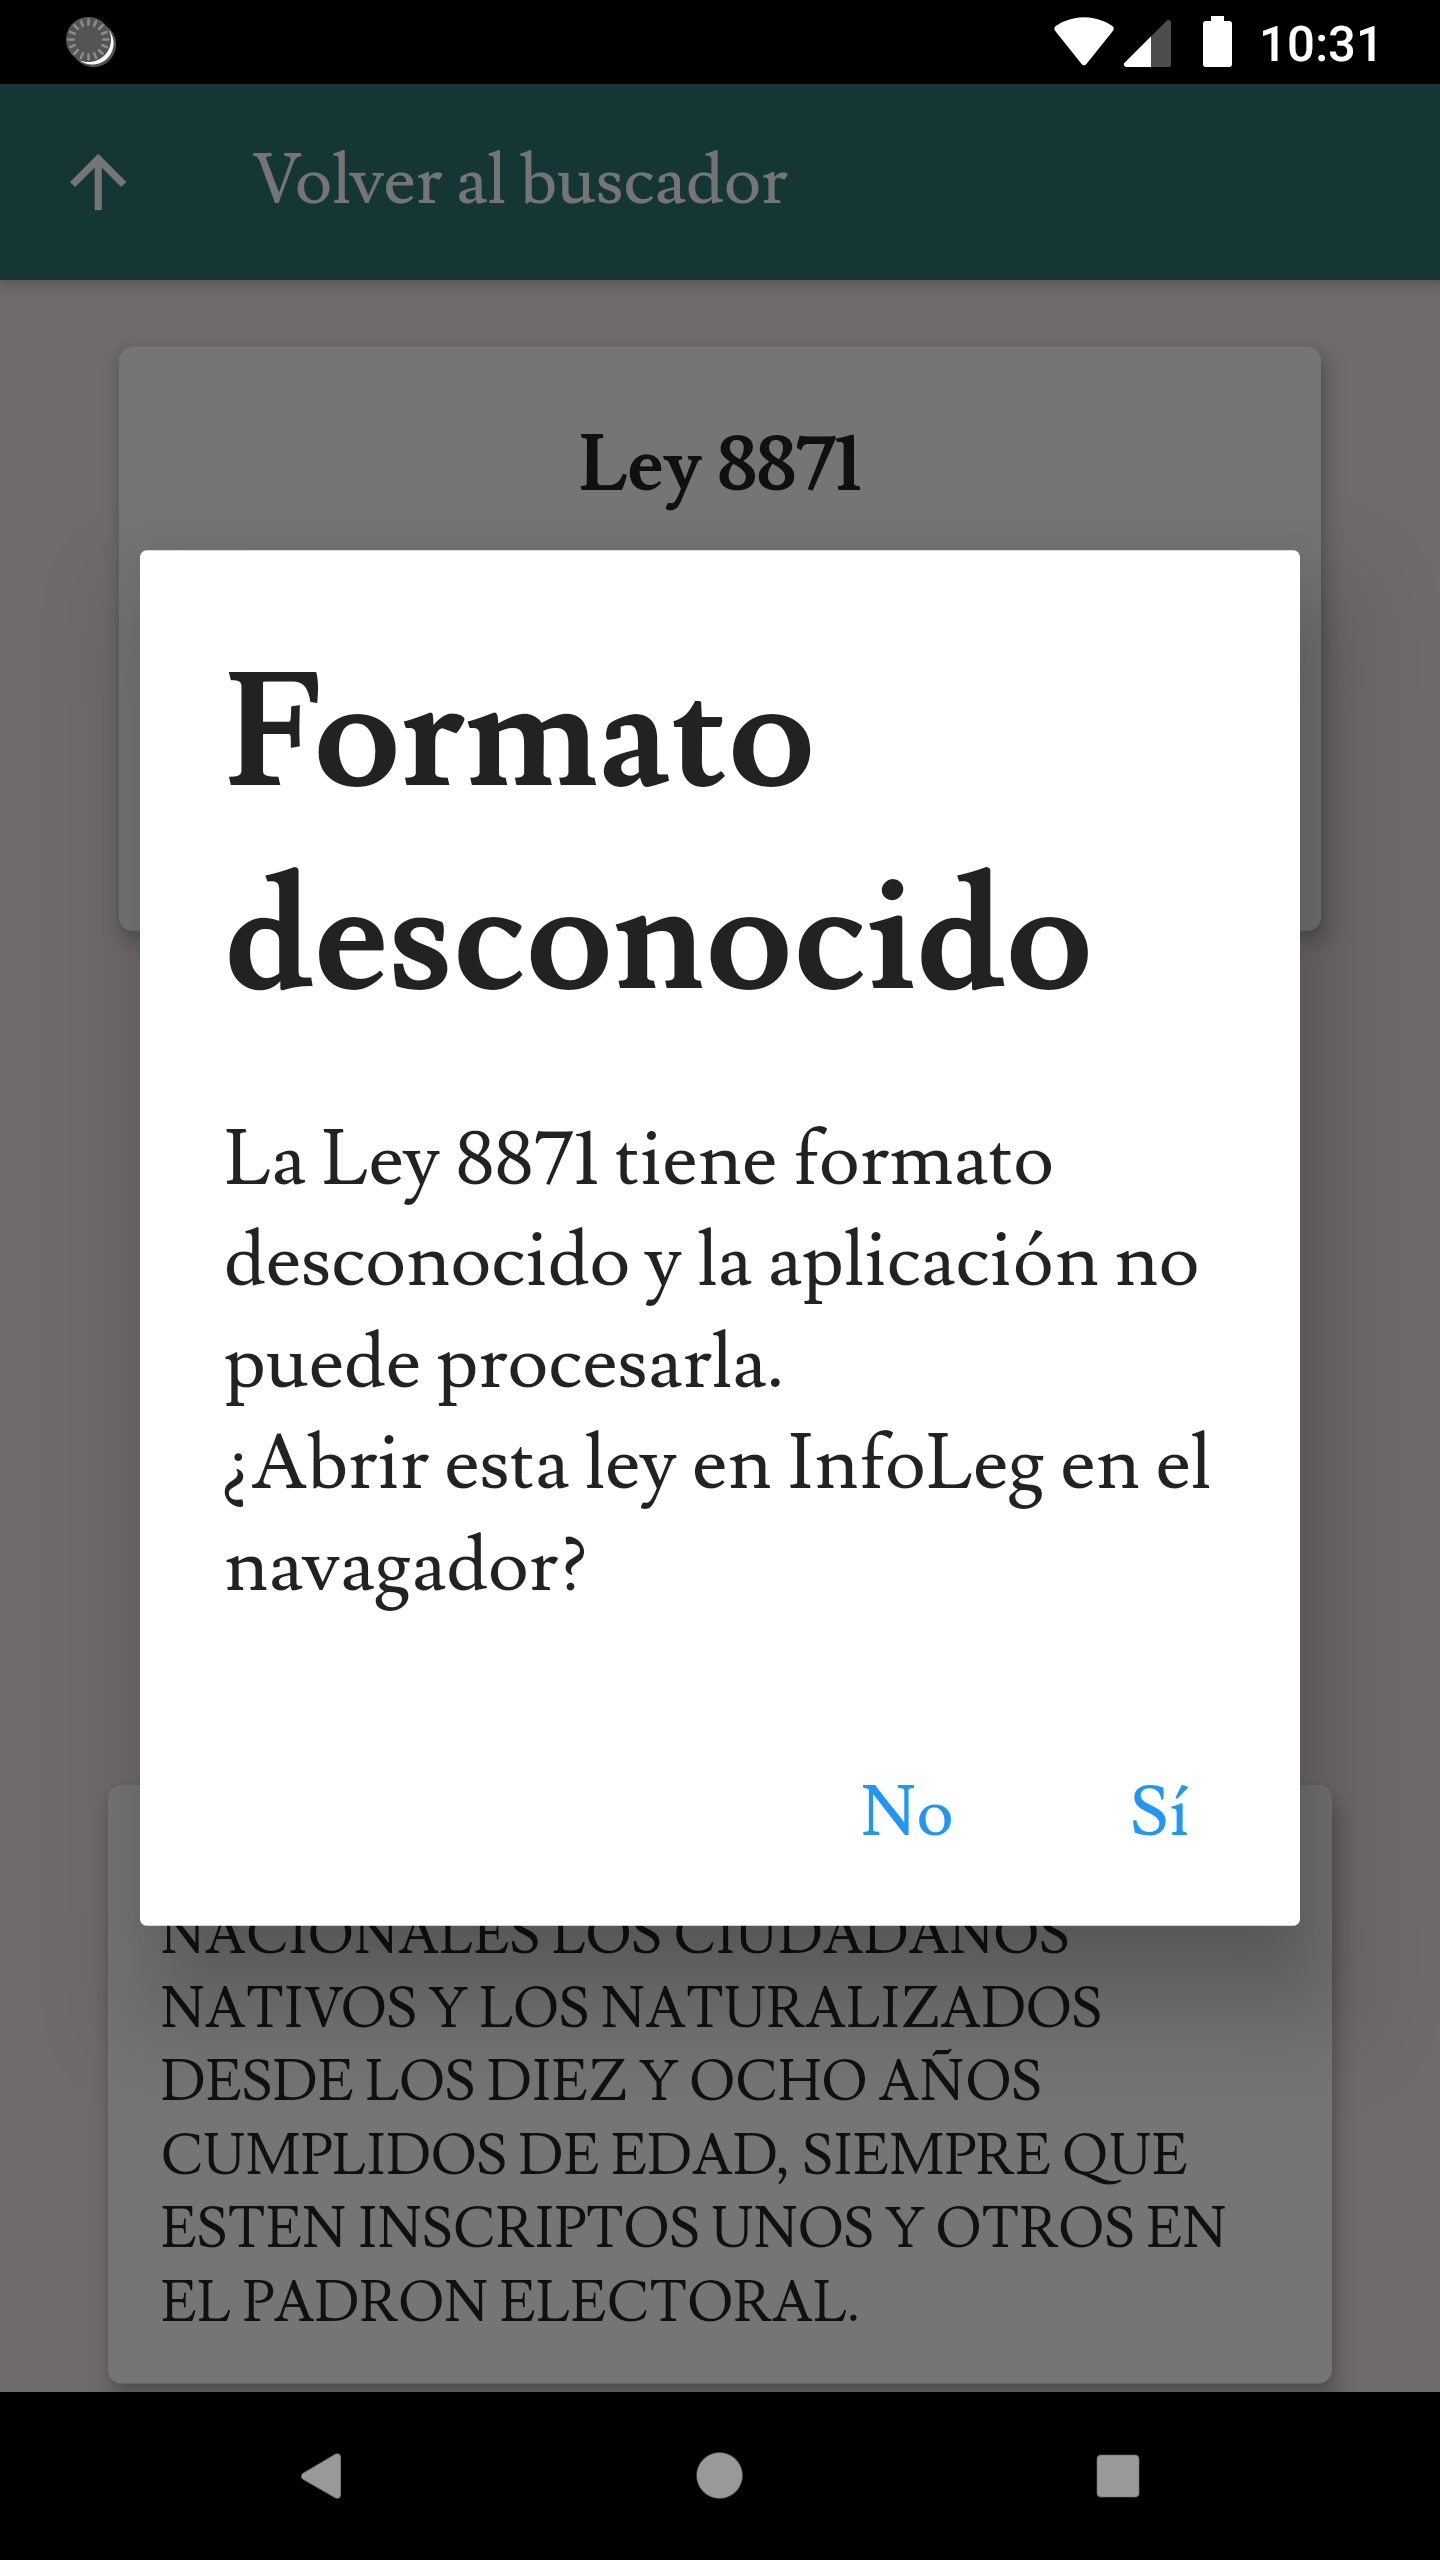
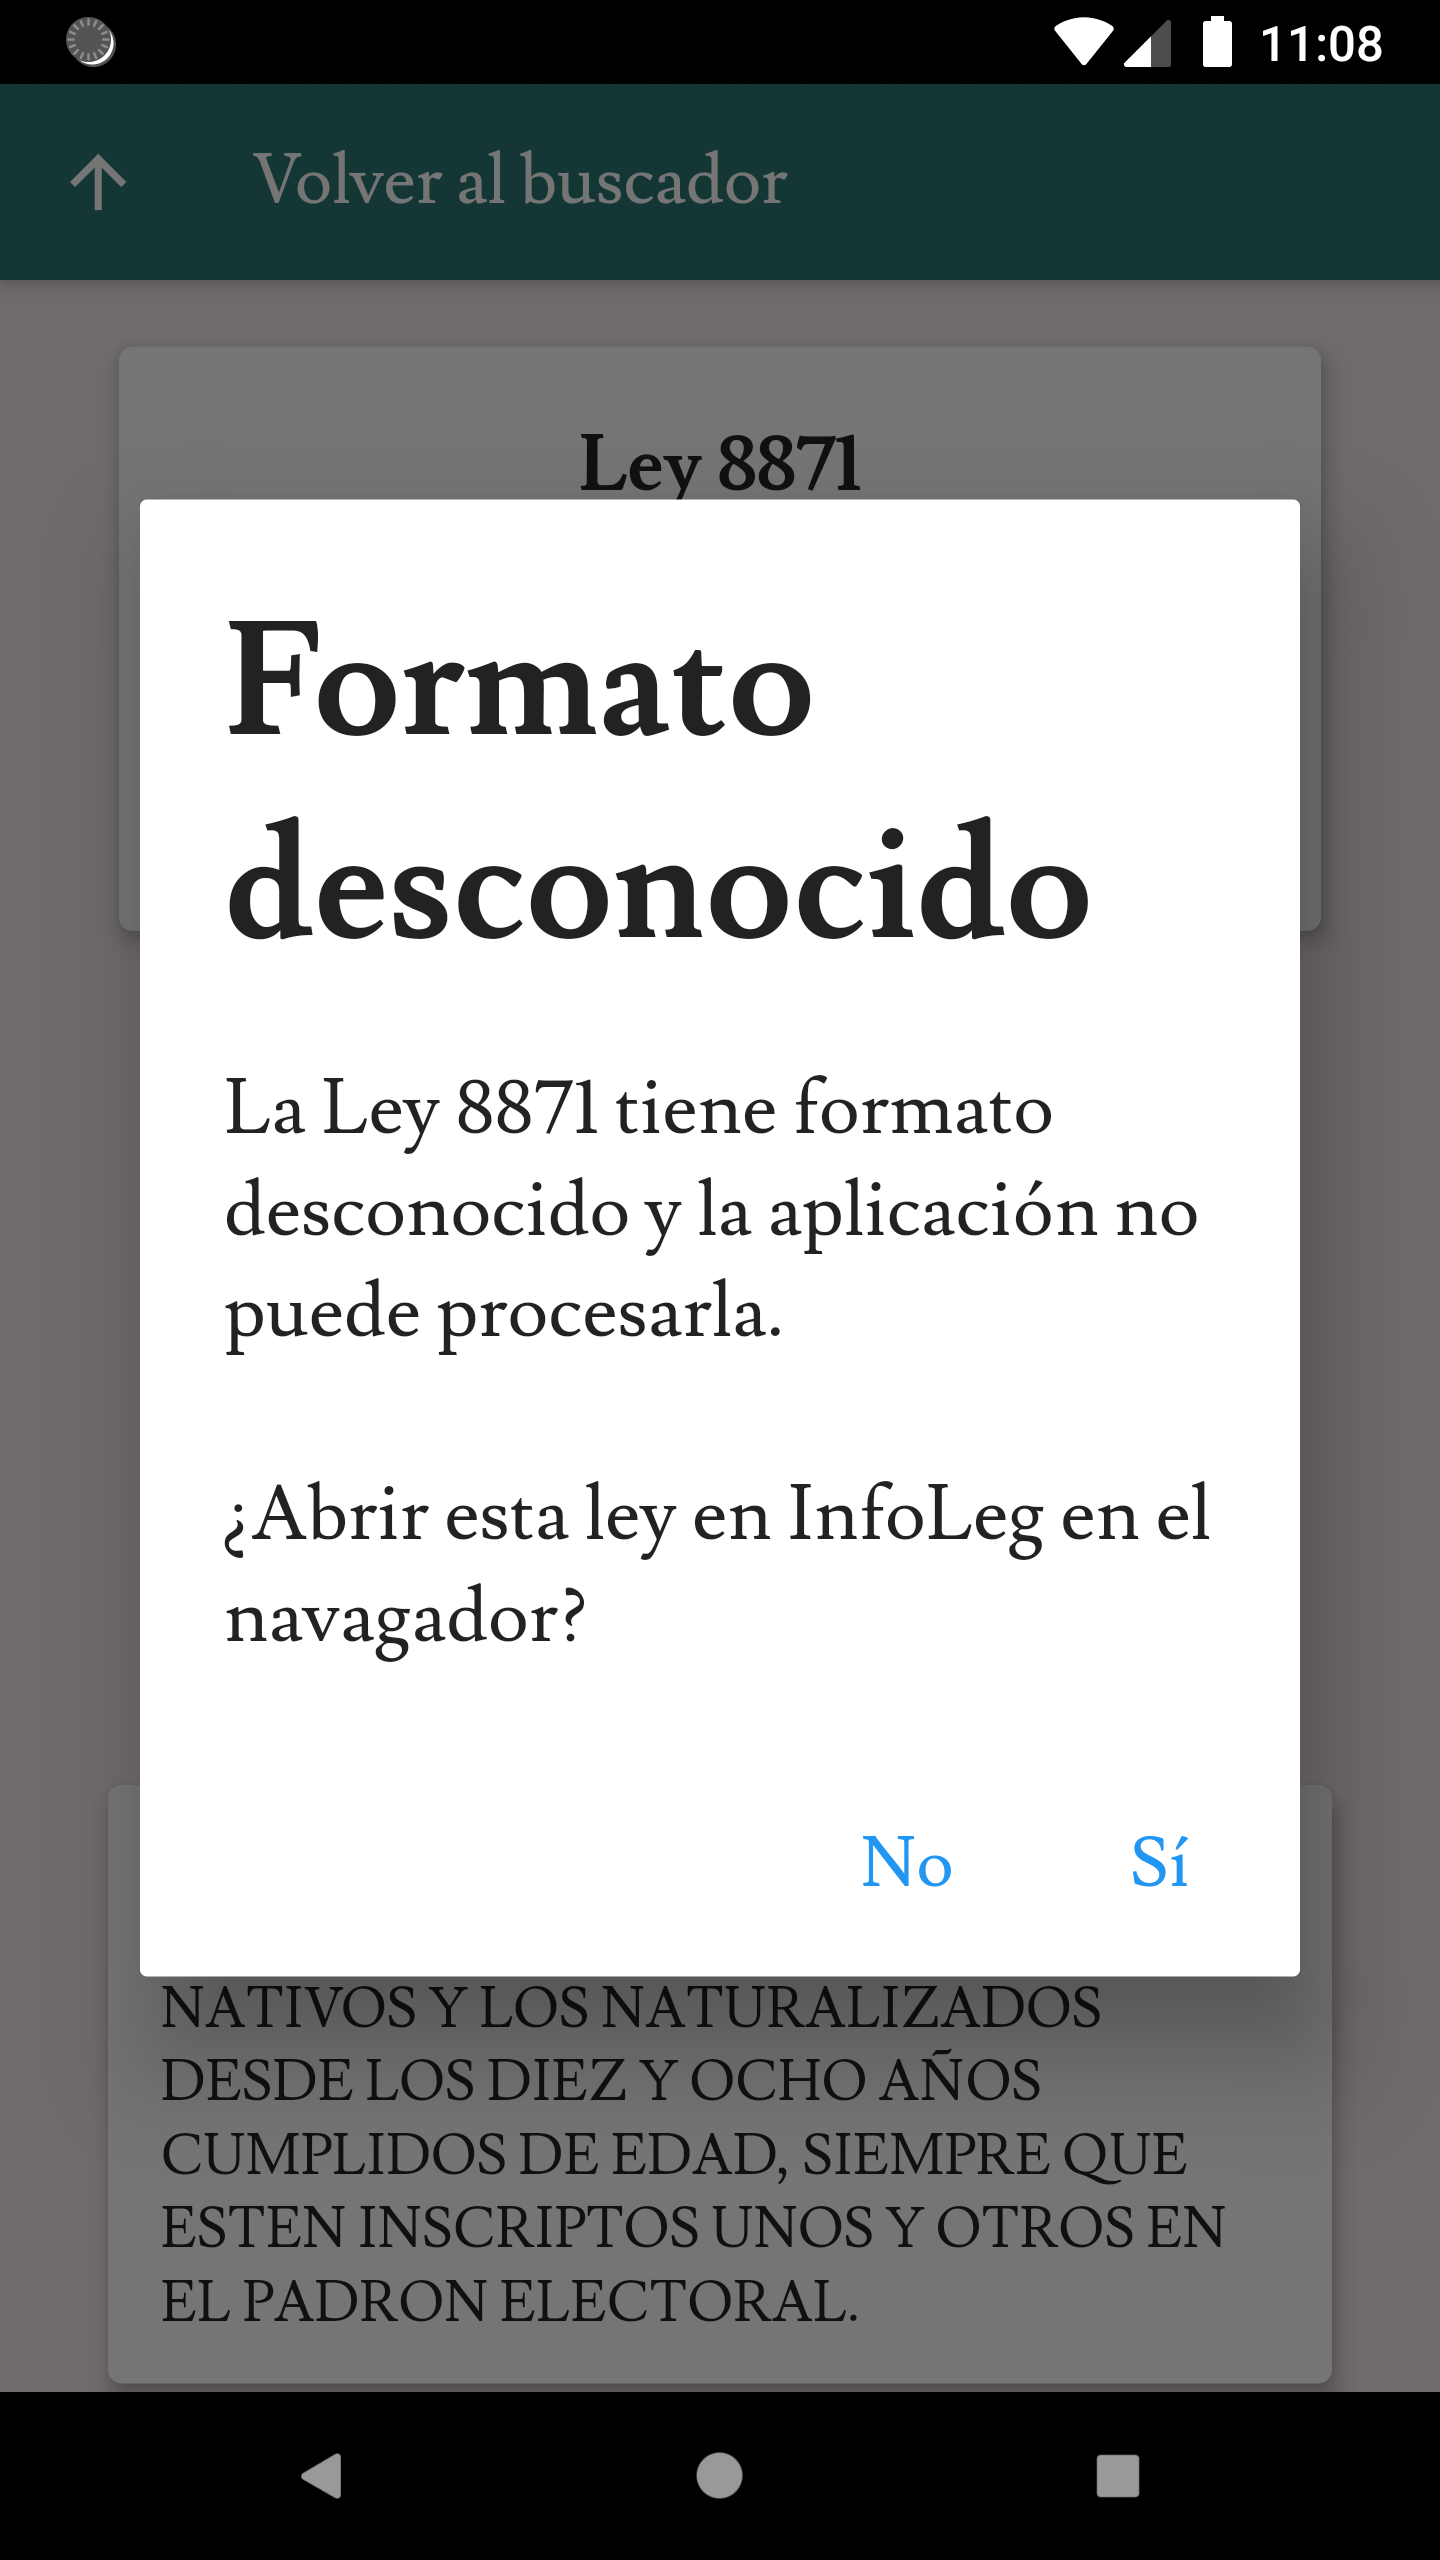
Add more README touchups

Changed region(s): [[0.0938, 0.1875, 0.9062, 0.6562], [0.0938, 0.6875, 0.9062, 0.7812], [0.875, 0.0, 0.9688, 0.0312]]

diff --git a/lib/screens/law_summary_screen.dart b/lib/screens/law_summary_screen.dart
@@ -10,7 +10,6 @@ import 'package:infobootleg/models/search_state_model.dart';
 import 'package:infobootleg/utils/hex_color.dart';
 import 'package:infobootleg/models/law_model.dart';
 import 'package:infobootleg/widgets/alert_box.dart';
-import 'package:infobootleg/utils/exceptions.dart';
 
 enum ModificationType { modifies, isModifiedBy }
 
@@ -121,7 +120,7 @@ class LawSummaryScreen extends StatelessWidget {
       final bool answer = await AlertBox(
         title: "Formato desconocido",
         content:
-            "La Ley ${searchState.activeLaw.number} tiene formato desconocido y la aplicación no puede procesarla.\n¿Abrir esta ley en InfoLeg en el navagador?",
+            "La Ley ${searchState.activeLaw.number} tiene formato desconocido y la aplicación no puede procesarla.\n\n¿Abrir esta ley en InfoLeg en el navagador?",
         confirmActionText: "Sí",
         cancelActionText: "No",
       ).show(context);

diff --git a/README.md b/README.md
@@ -47,14 +47,14 @@ Sign in using a Google or Facebook account, e-mail/password or anonymously. In a
 
 <p align="center">
     <img src="demo/sign_in.png" height="500px">
+    &nbsp;&nbsp;&nbsp;&nbsp;
+    <img src="demo/sign_in_email.png" height="500px">
 </p>
 
 <p align="center">
     <img src="demo/sign_in_google.png" height="500px">
     &nbsp;&nbsp;&nbsp;&nbsp;
     <img src="demo/sign_in_facebook.png" height="500px">
-    &nbsp;&nbsp;&nbsp;&nbsp;
-    <img src="demo/sign_in_email.png" height="500px">
     &nbsp;&nbsp;&nbsp;&nbsp;
 </p>
 
